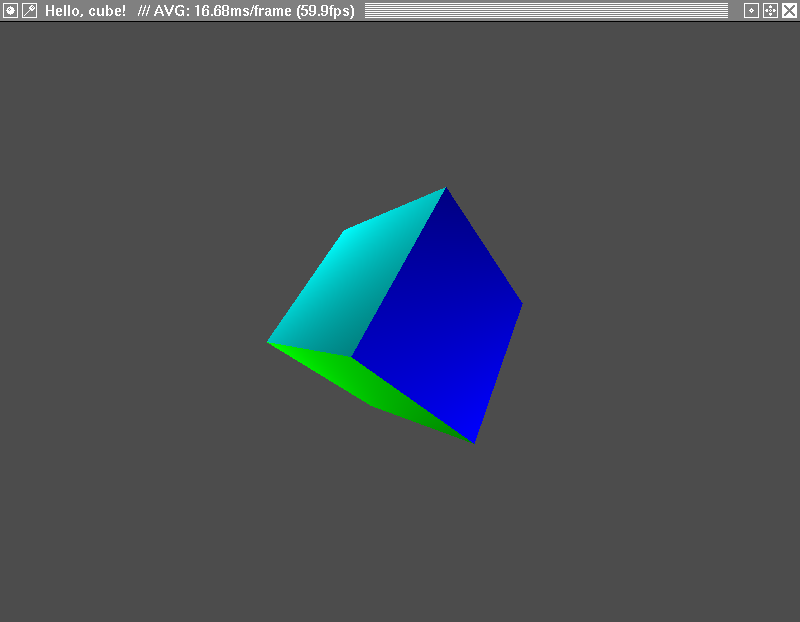
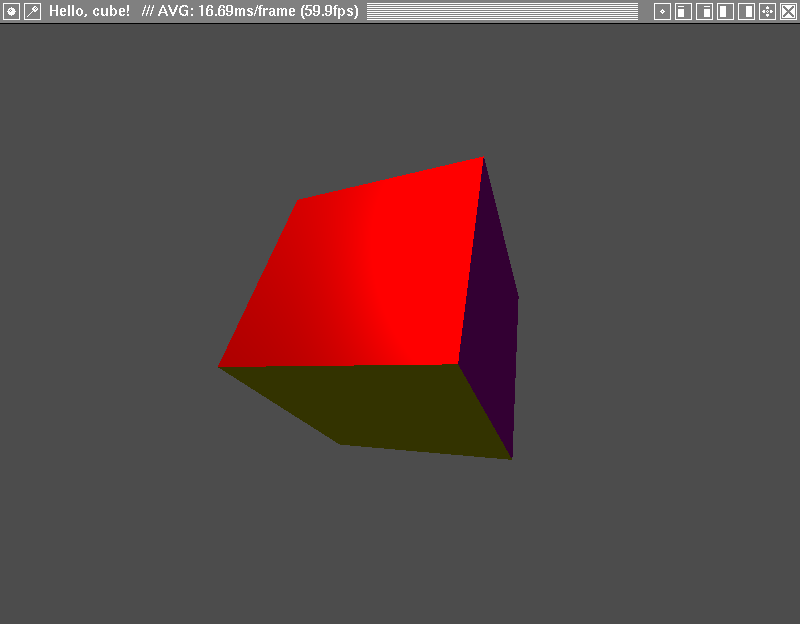
update documentation to mention the lighting

Changed region(s): [[0.25, 0.2444, 0.6562, 0.7331], [0.0, 0.0, 1.0, 0.0611]]

diff --git a/README.md b/README.md
@@ -1,7 +1,7 @@
 # HelloCube
 The purpose of this little program is to demonstrate the basic 
 usage of modern OpenGL core profiles. The program will display
-a rotating, unlit cube, with some color transition on each face.
+a rotating cube with simple blinn-phong lighting.
 
 ![Screenshot of HelloCube application: a cube](https://raw.githubusercontent.com/derhass/HelloCube/master/screenshot.png)
 
